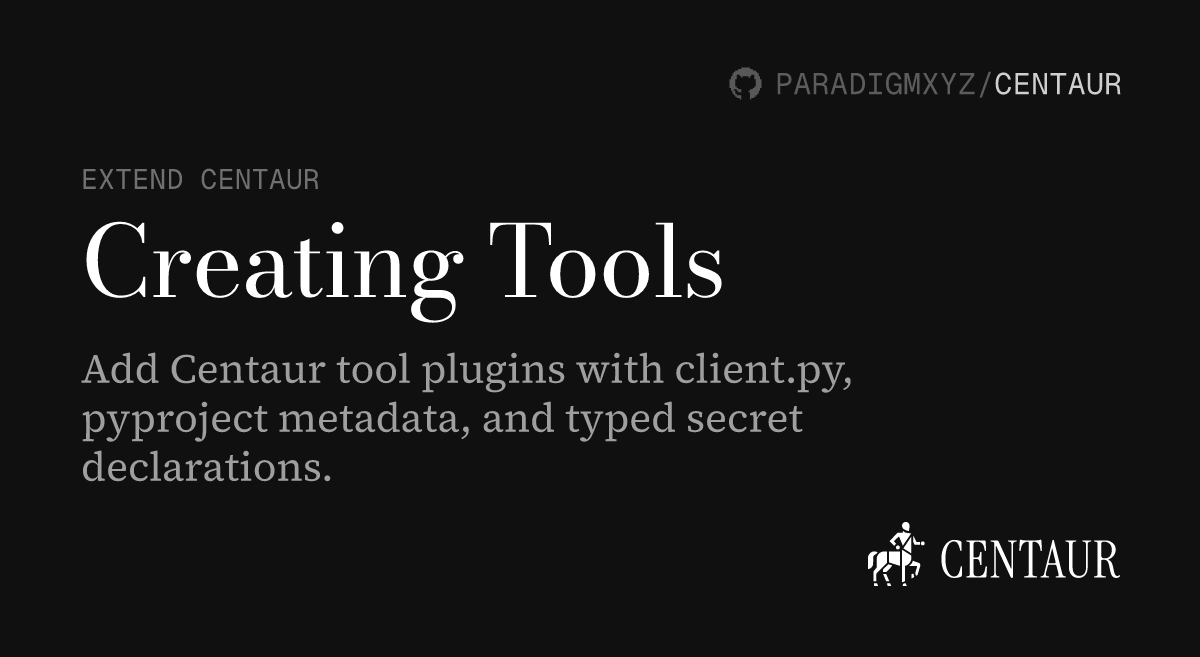
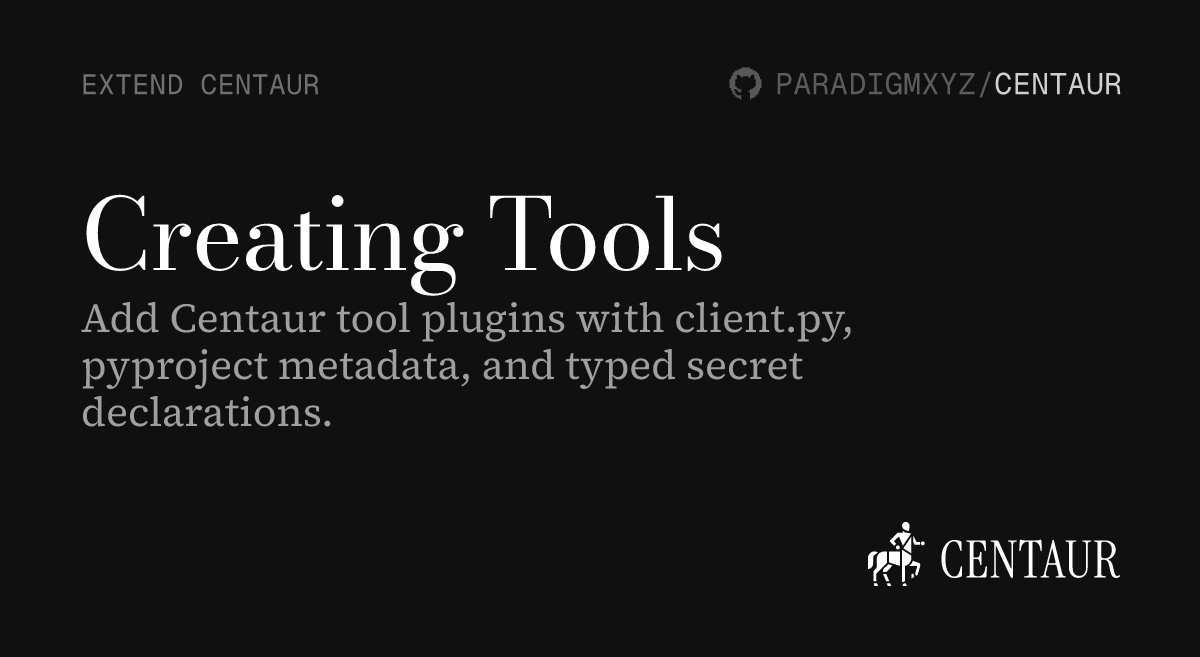
docs(og): tighten OG card template + refresh example previews
- Align CATEGORY eyebrow with top-right paradigmxyz/centaur label
- Title letter-spacing -0.02em -> -0.03em (-1%)
- Description letter-spacing 0em -> -0.02em (-2%)
- Move title + description up together and tighten gap between them
- Ensure 3-line descriptions clear the centaur silhouette
- Refresh .github/og-examples/*.png with the new layout

Changed region(s): [[0.0617, 0.2435, 0.7092, 0.7306], [0.0617, 0.0913, 0.2775, 0.1522]]

diff --git a/docs/scripts/build-og.ts b/docs/scripts/build-og.ts
@@ -225,40 +225,46 @@ function wrapText(text: string, maxChars: number, maxLines: number): string[] {
 }
 
 // Layout constants for the left content stack inside the 1200x657 card.
-// Positions are computed so the (eyebrow + title + description) block is
-// vertically centered around CENTER_Y. The 0.78 ASCENT_RATIO converts each
-// line's visual top (its "box") into the baseline that SVG y= anchors to.
+//
+// The eyebrow is pinned at the top of the card on the same baseline as
+// the top-right `PARADIGMXYZ/CENTAUR` label so the two header rows read
+// as a single horizontal band. Title + description hang below from a
+// default first-title baseline; if the description would crowd the
+// centaur silhouette in the bottom-right we lift the whole title/desc
+// block upward until the last description baseline fits within
+// DESC_BASELINE_MAX_Y.
 const LEFT_X = 81
-const CENTER_Y = 328.5
-const EYEBROW_H = 30
+const EYEBROW_BASELINE_Y = 94.18
+const DEFAULT_TITLE_BASELINE_Y = 270
 const TITLE_LINE_H = 89
-const DESC_LINE_H = 49
-const GAP_EYEBROW_TITLE = 32
-const GAP_TITLE_DESC = 28
-const ASCENT_RATIO = 0.78
+const DESC_LINE_H = 47
+const TITLE_TO_DESC_BASELINE_GAP = 62
+const DESC_BASELINE_MAX_Y = 490
 
 function computeStackY(nTitle: number, nDesc: number) {
-  const titleBlock = nTitle * TITLE_LINE_H
-  const descBlock = nDesc > 0 ? GAP_TITLE_DESC + nDesc * DESC_LINE_H : 0
-  const totalH = EYEBROW_H + GAP_EYEBROW_TITLE + titleBlock + descBlock
-  const topY = CENTER_Y - totalH / 2
+  const titleStackHeight = Math.max(0, nTitle - 1) * TITLE_LINE_H
+  const descStackHeight =
+    nDesc > 0 ? TITLE_TO_DESC_BASELINE_GAP + Math.max(0, nDesc - 1) * DESC_LINE_H : 0
 
-  const titleTop = topY + EYEBROW_H + GAP_EYEBROW_TITLE
-  const firstTitleBaseline = titleTop + TITLE_LINE_H * ASCENT_RATIO
+  let firstTitleBaseline = DEFAULT_TITLE_BASELINE_Y
+  const projectedLastDescBaseline = firstTitleBaseline + titleStackHeight + descStackHeight
+  if (nDesc > 0 && projectedLastDescBaseline > DESC_BASELINE_MAX_Y) {
+    firstTitleBaseline -= projectedLastDescBaseline - DESC_BASELINE_MAX_Y
+  }
+
   const titleBaselines = Array.from(
     { length: nTitle },
     (_, i) => firstTitleBaseline + i * TITLE_LINE_H,
   )
-  const titleBottom = titleTop + titleBlock
+  const lastTitleBaseline =
+    titleBaselines[titleBaselines.length - 1] ?? firstTitleBaseline
+  const firstDescBaseline = lastTitleBaseline + TITLE_TO_DESC_BASELINE_GAP
+  const descBaselines = Array.from(
+    { length: nDesc },
+    (_, i) => firstDescBaseline + i * DESC_LINE_H,
+  )
 
-  const descBaselines = Array.from({ length: nDesc }, (_, i) => {
-    const descTop = titleBottom + GAP_TITLE_DESC
-    return descTop + DESC_LINE_H * ASCENT_RATIO + i * DESC_LINE_H
-  })
-
-  const eyebrowBaseline = topY + EYEBROW_H * ASCENT_RATIO
-
-  return { eyebrowBaseline, titleBaselines, descBaselines }
+  return { eyebrowBaseline: EYEBROW_BASELINE_Y, titleBaselines, descBaselines }
 }
 
 function buildSvg(
